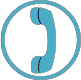
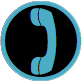
- video resized at 8.5 seconds - incoming transmission appear after video - new rocket select screen at end of first lesson.

diff --git a/Mars_Scaffold2/www/index.html b/Mars_Scaffold2/www/index.html
@@ -165,6 +165,12 @@ document.addEventListener("DOMContentLoaded", function () {
 		//document.getElementById( "footnotediv1" ).innerHTML = this.currentTime();
 	//});
 	popcornMedia[0].on( "play", function() {
+		$("#videocontenttarget").animate({width: 720, height: 405,
+											top: "50%", left: "50%",
+											margin:"-240px 0 0 -335px"}, 1, function() {
+           	//$("#videocontenttarget").css('pointer-events', 'auto');
+       	});
+		
     	$("#videocontenttarget").animate({opacity: 1.0}, 100, function() {
            	$("#videocontenttarget").css('pointer-events', 'auto');
        	});
@@ -176,19 +182,26 @@ document.addEventListener("DOMContentLoaded", function () {
            	$("#backgroundtarget").css('pointer-events', 'none');
        	});
 	});
+	popcornMedia[0].cue( 8.5, function() {
+		$("#videocontenttarget").animate({width: 360, height: 202,
+											top: "10%", left: "2%",
+											margin:"-0px 0 0 -0px"}, 1000, function() {
+				//$("#videocontenttarget").css('pointer-events', 'auto');
+		});
+	});
 	popcornMedia[0].on( "ended", function() {
     	$("#videocontenttarget").animate({opacity: 0.0}, 100, function() {
            	$("#videocontenttarget").css('pointer-events', 'none');
        	});
+
+    	$("#incomingmessage").animate({opacity: 1.0}, 1000, function() {
+           	$("#incomingmessage").css('pointer-events', 'auto');
+       	});
+    	
     	advancePopcornMedia();
 	});
     popcornMedia[1].on( "ended", function() {
     	advancePopcornMedia();
-	});
-    popcornMedia[16].on( "ended", function() {
-        $("#selectmissionrocket").animate({opacity: 1.0}, 200, function() {
-        	$("#selectmissionrocket").css('pointer-events', 'auto');
-    	});
 	});
     
 
@@ -198,6 +211,7 @@ document.addEventListener("DOMContentLoaded", function () {
     	Tweener(ssScale, {sunScale:.000001}, 1000);
     	Tweener(ssScale, {s:.00001}, 1000);
 	});
+    
     popcornMedia[1].cue( 11, function() {
     	Tweener(ssScale, {s:.000001}, 1000);
 	});
@@ -271,6 +285,12 @@ document.addEventListener("DOMContentLoaded", function () {
         //temp: just call this until we get needed function from Ryan.
         setTimeout(function(){advanceUser()},5000);
 	});
+
+    popcornMedia[13].cue( 2.2, function() {
+    	$("#threedcontrols").animate({opacity: 1.0}, 200, function() {
+        	$("#threedcontrols").css('pointer-events', 'auto');
+    	});
+	});
     popcornMedia[13].on( "ended", function() {
         //the button click test (user to click mars button)
         //userMouseAction[userLessonNumber]=true;
@@ -289,13 +309,13 @@ document.addEventListener("DOMContentLoaded", function () {
         	//$("#backpackloginpopup").css('pointer-events', 'auto');
     	//});
     	
-    	//popBadgeWindow(); //trigger a 'user' button click to avoid popup block
+    	//popBadgeWindow(); //trigger a 'user' button click to avoid popup block (which doesn't work...)
     	document.getElementById('popit').click();
 	});
 
-    popcornMedia[13].cue( 2.2, function() {
-    	$("#threedcontrols").animate({opacity: 1.0}, 200, function() {
-        	$("#threedcontrols").css('pointer-events', 'auto');
+    popcornMedia[16].on( "ended", function() {
+        $("#selectmissionrocket").animate({opacity: 1.0}, 200, function() {
+        	$("#selectmissionrocket").css('pointer-events', 'auto');
     	});
 	});
 
@@ -613,6 +633,30 @@ document.addEventListener("DOMContentLoaded", function () {
     	$("#browserpopup").animate({opacity: 0.0}, 200, function() {
         	$("#browserpopup").css('pointer-events', 'none');
         });
+    };
+    
+    var incomingtransmissionclose = document.getElementById('ignorebutton');
+    incomingtransmissionclose.onclick = function() {
+    	$("#incomingmessage").animate({opacity: 0.0}, 200, function() {
+        	$("#incomingmessage").css('pointer-events', 'none');
+        });
+    };
+    
+    //selectmissionrocket div
+    var checkboxrocket1 = document.getElementById('checkboxrocket1');
+    checkboxrocket1.onclick = function() {
+   		$('#checkboxrocket2').prop('checked', false);
+   		$('#checkboxrocket3').prop('checked', false);
+    };
+    var checkboxrocket2 = document.getElementById('checkboxrocket2');
+    checkboxrocket2.onclick = function() {
+   		$('#checkboxrocket1').prop('checked', false);
+   		$('#checkboxrocket3').prop('checked', false);
+    };
+    var checkboxrocket3 = document.getElementById('checkboxrocket3');
+    checkboxrocket3.onclick = function() {
+   		$('#checkboxrocket1').prop('checked', false);
+   		$('#checkboxrocket2').prop('checked', false);
     };
     
    
@@ -1025,6 +1069,7 @@ document.addEventListener("DOMContentLoaded", function () {
 		</div>
 		<div id="loadtext" style="z-index: 6;"></div>
 		
+		<!--  currently moved into it's own php web page... dealing with popup blocking may be problematic.  would like to move back here -->
 		<div id="backpackloginpopup" class="modalmask">
 			<div id="backpacklogindiv" class="badgecontenttarget">
 				<div id="backpackloginpopupclose" class="closebutton"><p>&#10006;</p></div>
@@ -1072,9 +1117,9 @@ document.addEventListener("DOMContentLoaded", function () {
 			<p>The browser page</p>
 		</div>
 		
-		<div id="selectmissionrocket" class="islediv">
-			<h1>Select Mission Rocket</h1>
-			<table width="100%">
+		<div id="selectmissionrocket" class="selectitemdiv">
+			<h2>Select Mission Rocket</h2>
+			<table style="width: 100%;margin:0;padding:0;">
 				<tr>
 					<td width="33%" align="center" valign="bottom"><img src="./images/rocket_falcon.png"></td>
 					<td width="33%" align="center" valign="bottom"><img src="./images/rocket_deltaIV.png"></td>
@@ -1086,13 +1131,40 @@ document.addEventListener("DOMContentLoaded", function () {
 					<td width="33%" align="center">NASA SLS</td>
 				</tr>
 				<tr>
-					<td width="33%" align="center"><input type="checkbox" id="checkboxfalcon"  class="regular-checkbox" /></td>
-					<td width="33%" align="center"><input type="checkbox" id="checkboxdeltaIV"  class="regular-checkbox" /></td>
-					<td width="33%" align="center"><input type="checkbox" id="checkboxnasasls"  class="regular-checkbox" /></td>
+					<td width="33%" align="center"><input type="checkbox" id="checkboxrocket1"  class="regular-checkbox" /></td>
+					<td width="33%" align="center"><input type="checkbox" id="checkboxrocket2"  class="regular-checkbox" /></td>
+					<td width="33%" align="center"><input type="checkbox" id="checkboxrocket3"  class="regular-checkbox" /></td>
 				</tr>
 			</table>
 			
-			
+		</div>
+		
+		<div id="incomingmessage" class="capcommessagediv">
+			<table style="width: 100%;margin:2;padding:0;" >
+				<tr >
+					<td width="50px" rowspan="2" align="left" valign="middle"><img src="./images/phone_icon.png" style="width:45px;height:45px;"></td>
+					
+					<td align="left">...Incoming Transmission</td>
+				</tr>
+				<tr>
+					<td align="left">
+						<button id="answerbutton" class="roundedbluebutton">Answer</button>
+						<button id="ignorebutton" class="roundedbluebutton">Ignore</button>
+					</td>
+				</tr>
+			</table>
+		</div>
+		
+		<div id="transmissionmessage" class="capcommessagediv">
+			<table style="width: 100%;margin:2;padding:0;" >
+				<tr >
+					<td width="50px" rowspan="2" align="left" valign="middle"><img src="./images/phone_icon.png" style="width:45px;height:45px;"></td>
+					<td align="left">Current Transmission:</td>
+				</tr>
+				<tr>
+					<td align="left" style="font-weight:400;"> Nasa - Capcom </td>
+				</tr>
+			</table>
 		</div>
 		
 		

diff --git a/Mars_Scaffold2/www/css/mars.css b/Mars_Scaffold2/www/css/mars.css
@@ -275,11 +275,9 @@ div.pathfindervideo1
 	font-size: 18px;
     border-radius: 5px;
     border:none;
-	width: 720px;
-	height: 405px;
-	top:50%;
+	/*top:50%;
     left:50%;
-    margin:-240px 0 0 -335px;
+    margin:-240px 0 0 -335px;*/
 	z-index: 1;
 }
 .popupdiv
@@ -303,7 +301,7 @@ div.pathfindervideo1
     margin:-240px 0 0 -335px;
 	z-index: 5;
 }
-.islediv
+.selectitemdiv
 {
   position: absolute;
 	opacity: 0.0;
@@ -315,14 +313,57 @@ div.pathfindervideo1
 	text-transform: none;
 	line-height: 22px;
 	font-size: 18px;
-    border-radius: 8px;
+    border-radius: 10px;
     border:3px solid rgba(76,173,197,1.0);
 	width: 640px;
 	height: 550px;
-	top:50%;
+	top:40%;
     left:50%;
     margin:-240px 0 0 -335px;
 	z-index: 5;
+}
+.selectitemdiv td
+{
+	color: rgba(200,200,200,1.0);
+}
+.capcommessagediv
+{
+  position: absolute;
+	opacity: 0.0;
+	pointer-events:none;
+	padding: 10px 10px 10px 10px;
+	background: rgba(0,0,0,.85);
+	color: rgba(200,200,200,1.0);
+	font-family: 'Lato', sans-serif;
+	font-weight:bold;
+	text-transform: uppercase;
+	line-height: 18px;
+	font-size: 18px;
+    border-radius: 10px;
+    border:3px solid rgba(76,173,197,1.0);
+	width: 350px;
+	height: 55px;
+	top:5%;
+    right:10%;
+	z-index: 6;
+}
+div .roundedbluebutton{
+    display:inline-block;
+	text-align: center;
+	line-height: 14px;
+	font-size: 14px;
+	margin:5px 5px;
+	padding:3px 20px;
+	text-transform: uppercase;
+	font-family: 'Lato', sans-serif;
+	font-weight:plain;
+	background: rgba(40,40,40,1.0);
+	color: rgba(200,200,200,1.0);
+    border-radius: 5px;
+    border:2px solid rgba(76,173,197,1.0);
+}
+div .roundedbluebutton:hover{
+	background: rgba(58,132,166,0.5);
 }
 .videocontenttarget2
 {
